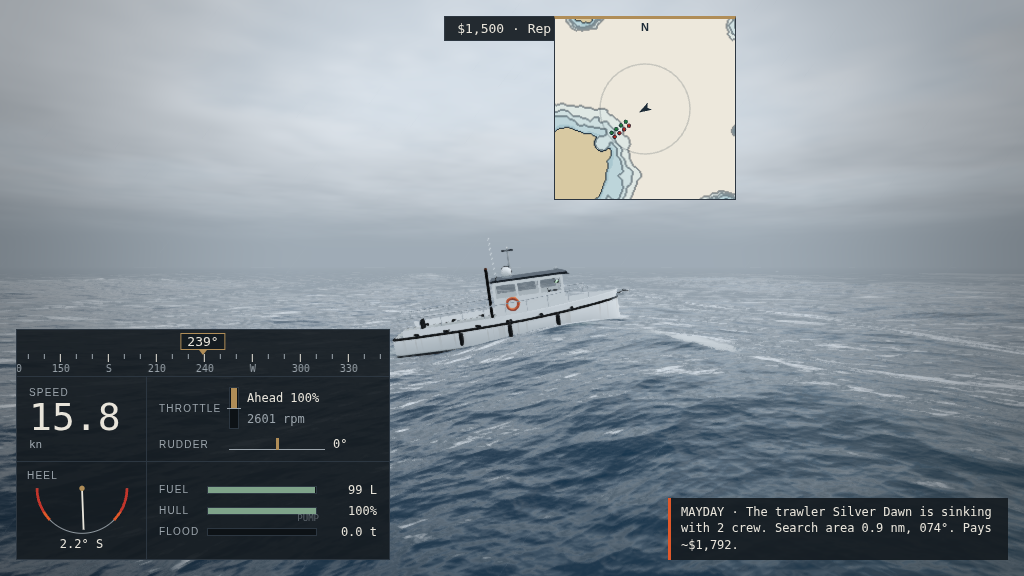
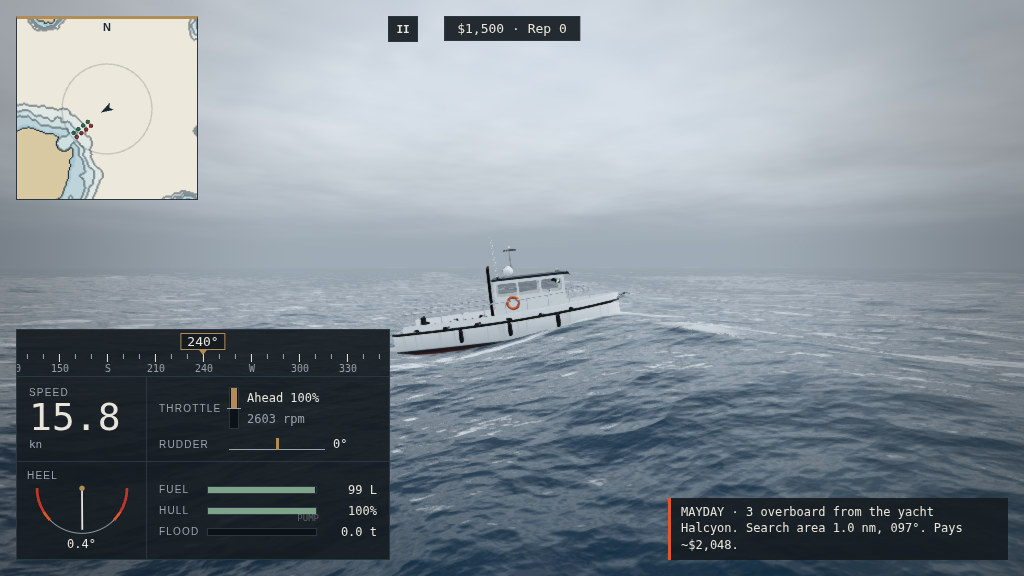
Bigger reach: outer islands, four new ports, far grounds and traffic
Claude-Session: https://claude.ai/code/session_01N1SWFf3Ygni1PmPXnFpHoH

diff --git a/src/config/world.js b/src/config/world.js
@@ -1,12 +1,13 @@
-// The Grey Reach (spec 6): a 6 x 6 km play region. Units are metres, +X
+// The Grey Reach (spec 6): a 10 x 10 km play region (the inner 6 x 6 km
+// of the original reach plus an outer ring of islands and far ports). Units are metres, +X
 // east, -Z north, origin at the centre. Islands are noise-shaped granite
 // domes; ports sit on their shores; reefs are submerged domes marked with
 // hazard buoys. Everything that places or shapes the world lives here.
 
 export const WORLD_MAP = {
-  halfSize: 3000, // play region half-extent
-  serviceRadius: 5000, // radio warns past this
-  failRadius: 7000, // towed home past this
+  halfSize: 5000, // play region half-extent
+  serviceRadius: 7500, // radio warns past this
+  failRadius: 9500, // towed home past this
   baseDepth: 55, // open-water depth (m), varied by noise
   depthNoise: 18,
   // x, z, radius, height (m), seed. Kept clear of a 700 m ring around the
@@ -22,12 +23,23 @@ export const WORLD_MAP = {
     { name: 'The Teeth', x: -900, z: -1250, r: 170, h: 24, seed: 8 },
     { name: 'Crowholm', x: 2500, z: -150, r: 260, h: 40, seed: 9 },
     { name: 'Skerry Mor', x: -300, z: 2350, r: 330, h: 44, seed: 10 },
+    // The outer reach.
+    { name: 'Ardmore', x: -3900, z: 2900, r: 650, h: 70, seed: 11 },
+    { name: 'Lanrick', x: 3900, z: -3300, r: 520, h: 55, seed: 12 },
+    { name: 'Duncairn', x: 4200, z: 3600, r: 480, h: 60, seed: 13 },
+    { name: 'Stack of Orra', x: -4300, z: -3600, r: 300, h: 80, seed: 14 },
+    { name: 'Mew Skerries', x: 600, z: 4200, r: 260, h: 26, seed: 15 },
+    { name: 'Carrach', x: -4400, z: -800, r: 360, h: 40, seed: 16 },
+    { name: 'Blackhead', x: 1200, z: -4300, r: 380, h: 50, seed: 17 },
   ],
   // Submerged hazards: x, z, radius, minimum depth.
   reefs: [
     { name: 'Widow Reef', x: 1150, z: 350, r: 80, minDepth: 0.4 },
     { name: 'Slate Shoal', x: -1450, z: -300, r: 110, minDepth: 0.8 },
     { name: 'Farrow Ledges', x: 1900, z: 1250, r: 90, minDepth: 0.5 },
+    { name: 'Orra Bank', x: -3300, z: -2600, r: 120, minDepth: 0.6 },
+    { name: 'Duncairn Rocks', x: 3350, z: 2750, r: 100, minDepth: 0.5 },
+    { name: 'Mew Ledge', x: 1300, z: 3500, r: 90, minDepth: 0.7 },
   ],
   ports: [
     {
@@ -39,6 +51,10 @@ export const WORLD_MAP = {
     },
     { id: 'pellow', name: 'Pellow Point', island: 1, services: ['fuel', 'repair', 'dropoff'] },
     { id: 'farrow', name: 'Farrow Station', island: 2, services: ['fuel', 'dropoff'], minReputation: 25 },
+    { id: 'hollin', name: 'Hollin Pier', island: 4, services: ['fuel', 'dropoff'] },
+    { id: 'ardmore', name: 'Ardmore', island: 10, services: ['fuel', 'repair', 'dropoff'], minReputation: 15 },
+    { id: 'lanrick', name: 'Lanrick Quay', island: 11, services: ['fuel', 'repair', 'dropoff'], minReputation: 40 },
+    { id: 'duncairn', name: 'Duncairn', island: 12, services: ['fuel', 'repair', 'dropoff'], minReputation: 60 },
   ],
   harbor: {
     basinRadius: 95, // dredged basin carved into the shore
@@ -48,18 +64,24 @@ export const WORLD_MAP = {
     shelter: 0.85,
   },
   // Small stations: a fuel dock off the shore facing the origin.
-  station: { zoneRadius: 90 },
+  station: { zoneRadius: 90, basinRadius: 40, basinDepth: 4.5 },
   // Fishing grounds (traffic trawls them; fishing work later).
   fishingGrounds: [
     { name: 'Hake Bank', x: -150, z: -850, r: 280 },
     { name: 'Gannet Deep', x: -1300, z: -2200, r: 300 },
     { name: 'Farrow Rip', x: 2500, z: 800, r: 280 },
     { name: 'West Hole', x: -2500, z: -300, r: 260 },
+    { name: 'Silver Pit', x: 2500, z: -3900, r: 350 },
+    { name: 'Ardmore Sound', x: -2500, z: 3900, r: 320 },
   ],
   lighthouses: [
     { port: 'kettle', at: 'breakwater' },
     { port: 'pellow', at: 'point' },
     { port: 'farrow', at: 'point' },
+    { port: 'hollin', at: 'point' },
+    { port: 'ardmore', at: 'point' },
+    { port: 'lanrick', at: 'point' },
+    { port: 'duncairn', at: 'point' },
   ],
 };
 
@@ -74,6 +96,9 @@ export const TRAFFIC = [
   { name: 'Guillemot', kind: 'fishing', model: 'trawler', speedKn: 5, ground: 2 },
   { name: 'Halcyon', kind: 'yacht', model: 'solace', speedKn: 16, route: ['pellow', 'farrow', 'kettle'], dwellSeconds: 40 },
   { name: 'Morven', kind: 'sailing', model: 'sailboat', speedKn: 5.5, ground: 3 },
+  { name: 'Ardmore Lass', kind: 'ferry', model: 'islander', speedKn: 13, route: ['kettle', 'hollin', 'ardmore'], dwellSeconds: 90 },
+  { name: 'Kinloch', kind: 'freighter', model: 'northfarer', speedKn: 11, route: ['pellow', 'lanrick', 'duncairn'], dwellSeconds: 120 },
+  { name: 'Silver Dawn', kind: 'fishing', model: 'trawler', speedKn: 4.5, ground: 4 },
 ];
 
 export const TRAFFIC_RULES = {

diff --git a/src/gameplay/Trade.js b/src/gameplay/Trade.js
@@ -91,14 +91,18 @@ export function makeTradeOffer(jobs, player) {
 
 const clock = (min) => `${Math.floor(min)}:${String(Math.floor((min % 1) * 60)).padStart(2, '0')}`;
 
-// A round of 2-4 legs from the nearest port back to it, calling at the
-// others (random order). Arrival times are cumulative from acceptance.
+// A round of 2-4 legs from the nearest port back to it, calling at some of
+// the ports near it. Arrival times are cumulative from acceptance.
 function timetableOffer(jobs, player, ports, start) {
   const rng = jobs.rng;
   const t = TRADE.timetable;
   const shape = jobs.shape;
   const L = player.cfg.hull.length;
-  const others = ports.filter((p) => p !== start).sort(() => rng() - 0.5).slice(0, 3);
+  // Calls at 1-3 of the four ports nearest the start, in random order.
+  const d = (p) => Math.hypot(p.zone.x - start.zone.x, p.zone.z - start.zone.z);
+  const near = ports.filter((p) => p !== start).sort((a, b) => d(a) - d(b)).slice(0, 4);
+  const calls = 1 + Math.floor(rng() * Math.min(3, near.length));
+  const others = near.map((p) => [rng(), p]).sort((a, b) => a[0] - b[0]).slice(0, calls).map(([, p]) => p);
   const stops = [start, ...others, start];
   const v = player.cfg.targets.topSpeedKn * KN * TRADE.workingSpeed;
   const pos = player.state.pos;

diff --git a/src/config/career.js b/src/config/career.js
@@ -25,7 +25,7 @@ export const JOBS = {
     barge: { value: 60000, minRep: 70, chance: 0.3, names: ['Grey Reach 7', 'Kettle Lighter 2', 'Stoneway'] },
   },
   fromTraffic: 0.5, // of person-overboard / raft calls: from a passing vessel
-  trafficKinds: { ferry: 'ferry', fishing: 'trawler', yacht: 'yacht', sailing: 'sloop' },
+  trafficKinds: { ferry: 'ferry', fishing: 'trawler', yacht: 'yacht', sailing: 'sloop', freighter: 'freighter' },
   sources: ['ferry Islander', 'trawler Ellen Mary', 'yacht Halcyon', 'creel boat Morag', 'pilot launch'],
   towShare: 0.18, // of vessel value x condition (spec 0.15, D64)
   crewTransferSeconds: 5,
@@ -67,7 +67,7 @@ export const FISHING = {
   maxSeaIndex: 3, // no fishing above Gale
   seaFactor: [0.8, 1, 1.1, 0.7], // calm..gale: fish bite better in a chop
   // Price per kg by ground (config/world.js fishingGrounds order).
-  pricePerKg: [3.2, 4.5, 5.0, 3.8],
+  pricePerKg: [3.2, 4.5, 5.0, 3.8, 5.8, 5.2], // the far grounds pay best
   shootSeconds: 20, // shooting or hauling the nets
 };
 

diff --git a/src/ui/Chart.js b/src/ui/Chart.js
@@ -102,7 +102,8 @@ export class Chart {
     // Kilometre grid.
     ctx.strokeStyle = 'rgba(28, 42, 54, 0.12)';
     ctx.lineWidth = 1;
-    for (let v = -3000; v <= 3000; v += 1000) {
+    const grid = Math.floor(map.half / 1000) * 1000;
+    for (let v = -grid; v <= grid; v += 1000) {
       const a = m(v, -map.half);
       const b = m(-map.half, v);
       ctx.beginPath();
@@ -116,9 +117,9 @@ export class Chart {
     ctx.font = `${font}px "IBM Plex Sans Condensed", "Arial Narrow", sans-serif`;
     ctx.textAlign = 'center';
     ctx.fillStyle = 'rgba(28, 42, 54, 0.75)';
-    const portNames = new Set(map.shape.ports.map((q) => q.name));
-    for (const s of map.shape.islands) {
-      if (portNames.has(s.name)) {
+    const portIslands = new Set(map.shape.ports.map((q) => q.island));
+    for (const [i, s] of map.shape.islands.entries()) {
+      if (portIslands.has(i)) {
         continue;
       }
       const p = m(s.x, s.z);

diff --git a/src/world/WorldShape.js b/src/world/WorldShape.js
@@ -107,6 +107,13 @@ export class WorldShape {
   carve(x, z, h) {
     for (const p of this.ports) {
       if (!p.harbor) {
+        // Fuel stations: a small dredged pocket at the pier head.
+        const st = this.map.station;
+        const dd = Math.hypot(x - p.dock.x, z - p.dock.z);
+        if (dd < st.basinRadius * 1.4) {
+          const k = smoothstep(st.basinRadius * 1.4, st.basinRadius * 0.7, dd);
+          h = h + (Math.min(h, -st.basinDepth) - h) * k;
+        }
         continue;
       }
       const hb = this.map.harbor;

diff --git a/src/world/World.js b/src/world/World.js
@@ -9,8 +9,8 @@ import { Harbors } from './Harbor.js';
 import { NavAids } from './NavAids.js';
 import { DepthMap } from '../ocean/DepthMap.js';
 
-const DEPTH_TEX = 512;
-const DEPTH_HALF = 3600; // metres covered by the depth texture (each way)
+const DEPTH_TEX = 768;
+const DEPTH_HALF = 5600; // metres covered by the depth texture (each way)
 const DEPTH_MAX = 40;
 
 function bakeDepth(shape) {

diff --git a/src/ui/styles.css b/src/ui/styles.css
@@ -796,7 +796,7 @@ body {
 
 .minimap {
   position: absolute;
-  right: 288px; /* left of the objective block */
+  left: 16px; /* top left: clear of the money pill and the objective block */
   top: 16px;
   width: 180px;
   height: 180px;

diff --git a/docs/PROGRESS.md b/docs/PROGRESS.md
@@ -84,6 +84,7 @@
 - **D83 Fishing (RP):** a new boat, the Kittiwake (18 m trawler, $22k, 6 t hold), shoots its nets with G on four charted grounds (Hake Bank, Gannet Deep, Farrow Rip, West Hole). Nets take 20 s to shoot or haul and drag hard (k·v², holding it to 2–5.5 kn trawling speed). While trawling the catch fills the hold at 100 kg/min (× sea factor; none above Gale), weighs the boat down as cargo, and sells at any fuel port for $3.2–5/kg by ground. Grounds are dotted on the chart. verify: the browser Bulwark load check (covered by physics tests) became a Kittiwake trawl-and-sell check.
 - **D84 Ferry timetables (RP):** passenger boats bigger than a charter party (the Islander) also get a Ferry timetable: a round from the nearest port calling at up to three others and back, each arrival due at a fixed time (leg run at 75% of top speed × 1.4 + boarding + 1.5 min slack). Each leg pays on arrival (×1.2 over a one-off passenger run), docked 5%/min late (min 50%); on time (≤1 min) +1 rep, late −1. While late the purser radios escalating complaints every 75 s. The objective line shows the next stop, time left/late and stop n/N. The Islander physics test now runs the Kettle–Pellow–Kettle timetable.
 - **D85 Fleet crews (RP):** owned boats other than the one in use can take a hired crew in the shipyard (fee 4% of the boat price). Each works a route of its own (Marlin harbor patrol … Northfarer coastal freight) for gross − wages per sim hour; past the boat's worst sea state the crew sits in port and only wages run. Earnings settle every 5 min with a Fleet office radio line; switching to a crewed boat takes her back from the crew. Saved with the career. Pure-JS test: one hour in Moderate pays exactly gross − wages, a Violent storm costs wages.
+- **D86 Bigger reach, more ports:** the Grey Reach grows from 6 × 6 to 10 × 10 km: seven outer islands (Ardmore, Lanrick, Duncairn, Stack of Orra, Mew Skerries, Carrach, Blackhead), three more reefs, and four new fuel stations: Hollin Pier (open), Ardmore (rep 15), Lanrick Quay (rep 40), Duncairn (rep 60), each with a lighthouse; every station dock sits in a dredged 4.5 m pocket (the outer shores shelve to ~2 m). Two far fishing grounds pay best (Silver Pit $5.8/kg, Ardmore Sound $5.2/kg). Traffic adds the Ardmore Lass ferry (Kettle–Hollin–Ardmore), the freighter Kinloch (Pellow–Lanrick–Duncairn) and another trawler. Depth texture 768² over ±5.6 km (bake ~0.9 s); service/fail radii 7.5/9.5 km; chart grid follows the map size. Timetables call at 1–3 of the four ports nearest the start. Minimap moved to the top left (it covered the money pill at 1024 px).
 - **D47 Verify budget:** test-physics runs at nice 10; tow screenshot run-up 70 → 40 s. Verify is at ~172 s; the next milestone needs another saving (e.g. fewer page loads or shorter slam wait).
 - Earlier decisions D1–D27: see `docs/CHANGELOG.md`.
 

diff --git a/docs/CHANGELOG.md b/docs/CHANGELOG.md
@@ -16,6 +16,7 @@
 - Fishing: Kittiwake trawler, G shoots/hauls nets on charted fishing grounds, catch weighs the boat down and sells at port; NETS touch button.
 - Ferry timetables: multi-stop scheduled rounds with per-leg pay, lateness penalties and passenger complaints.
 - Fleet: hire crews for idle owned boats to earn on their own routes; weatherbound crews cost wages.
+- Bigger reach (10 × 10 km): seven outer islands, four new ports (Hollin Pier, Ardmore, Lanrick Quay, Duncairn), far fishing grounds, a second ferry and a freighter on the AIS; minimap moved top-left.
 - Cargo recovery (containers adrift, tow each home, paid per container) and barge tows for the Bulwark; container and barge models; headless recovery test and barge tow-speed test.
 - Ambient traffic: a ferry on its round, trawlers on the fishing grounds, a yacht and a sloop; they give way, ride the sea, leave wakes, can be hit, show on the chart, and many rescue calls come from them.
 - Title screen (Continue / New Career / Settings / Controls) with a harbor flyover; pause menu (Esc or II): Resume, Settings, Controls, Save & Quit; settings for graphics, volume, horizon lock.
